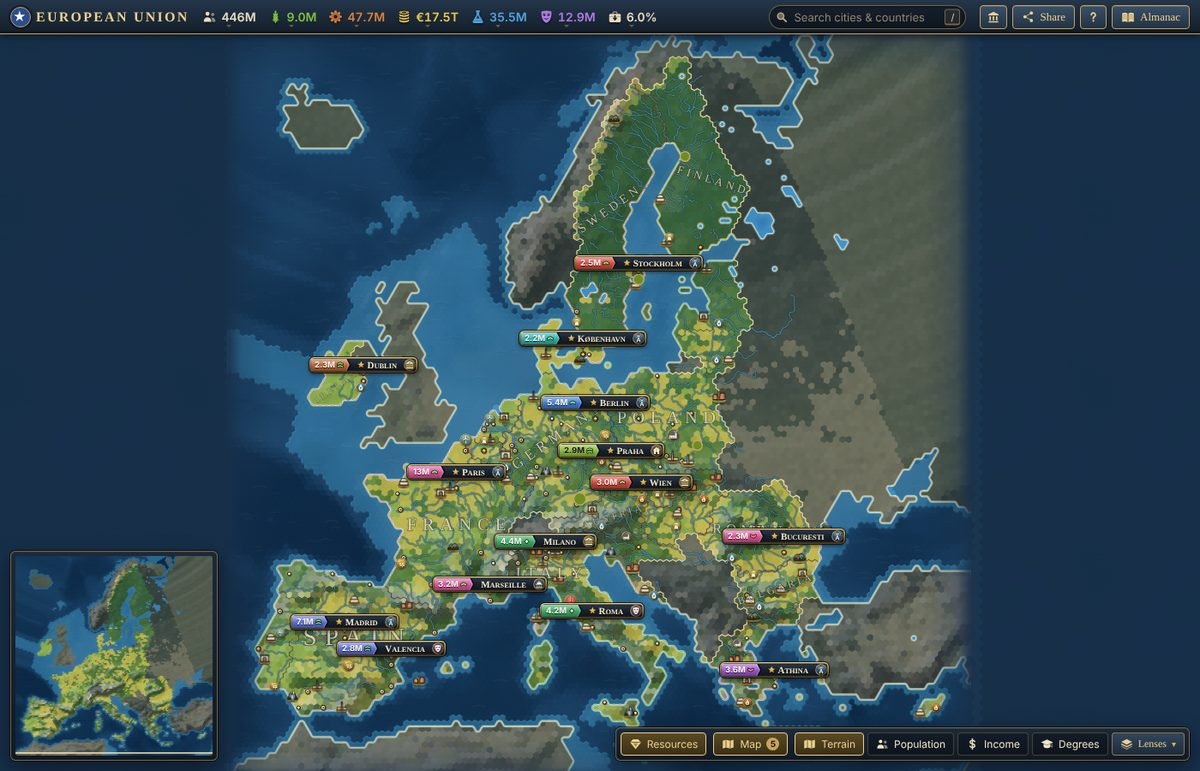
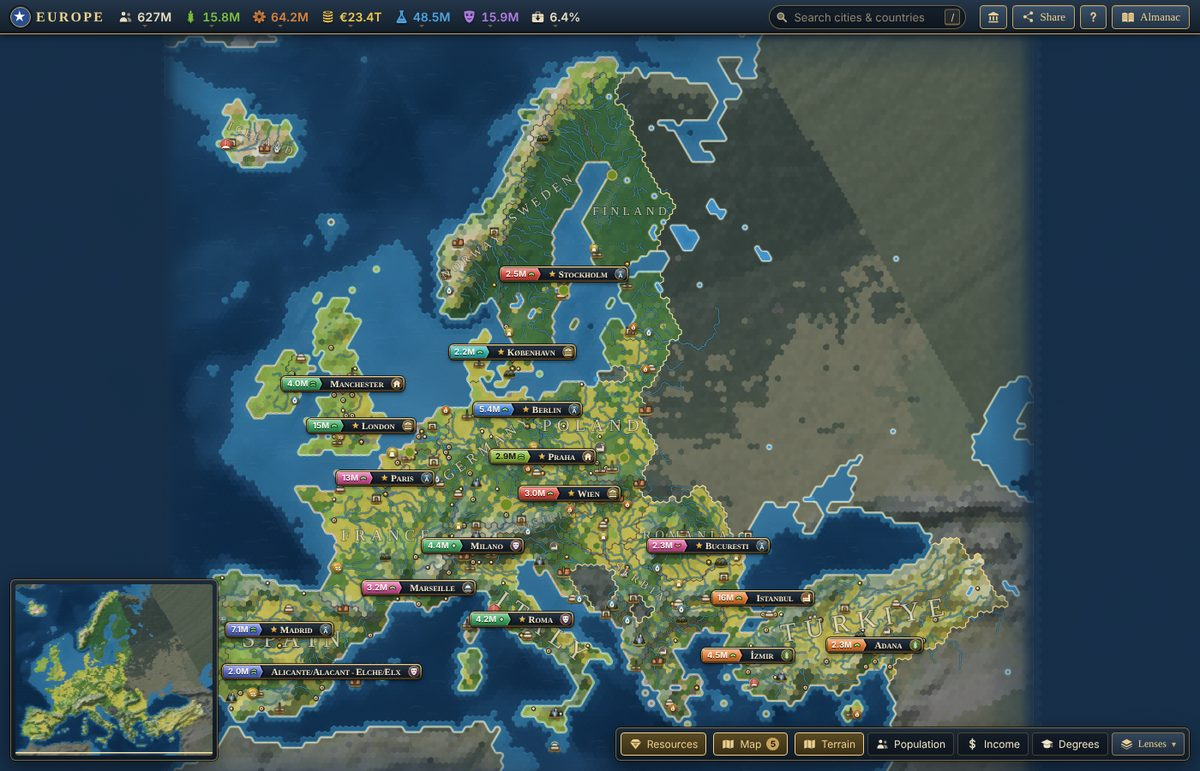
EU Civ: now covers all of Europe in Eurostat's regions; new screenshot
Claude-Session: https://claude.ai/code/session_01KyLYnHtwQy1yQfzD5A3jrZ

diff --git a/index.html b/index.html
@@ -1421,13 +1421,13 @@
               </p>
             </article>
             <article class="card repo showcase reveal">
-              <a class="shot" href="https://kalfasyan.github.io/eu-civ/" target="_blank" rel="noopener noreferrer"><img src="images/eu_civ.jpg" alt="EU Civ: a Civilization-style hex map of the European Union with cities, terrain and yields" width="1200" height="771" loading="lazy"></a>
+              <a class="shot" href="https://kalfasyan.github.io/eu-civ/" target="_blank" rel="noopener noreferrer"><img src="images/eu_civ.jpg" alt="EU Civ: a Civilization-style hex map of Europe with cities, terrain and yields" width="1200" height="771" loading="lazy"></a>
               <div class="repo-top">
                 <span class="repo-name"><svg class="ico ico-fill" aria-hidden="true"><use href="#i-github"/></svg>eu-civ</span>
                 <span class="stars" data-repo="kalfasyan/eu-civ"><svg class="ico ico-fill" aria-hidden="true"><use href="#i-star"/></svg><span>0</span></span>
               </div>
-              <p>The European Union as a Civilization-style hex map built from real public data: 238 metro regions as cities, terrain from elevation and ESA WorldCover land cover, and yields from Eurostat (jobs, GDP, R&amp;D). An EU adaptation of Andrej Karpathy&rsquo;s usaciv, with a new Python data pipeline.</p>
-              <ul class="tags"><li class="tag">Eurostat</li><li class="tag">ESA WorldCover</li><li class="tag">GIS</li><li class="tag">JavaScript</li></ul>
+              <p>Europe as a Civilization-style hex map built from real public data: the EU plus the UK, Switzerland, Norway, Türkiye and the Western Balkans, 325 cities, terrain from elevation and ESA WorldCover land cover, and yields from Eurostat and the ONS (jobs, GDP, R&amp;D). An EU adaptation of Andrej Karpathy&rsquo;s usaciv, with a new Python data pipeline.</p>
+              <ul class="tags"><li class="tag">Eurostat</li><li class="tag">ONS</li><li class="tag">ESA WorldCover</li><li class="tag">GIS</li><li class="tag">JavaScript</li></ul>
               <p class="link-row">
                 <a href="https://kalfasyan.github.io/eu-civ/" target="_blank" rel="noopener noreferrer">Live map<svg class="ico" aria-hidden="true"><use href="#i-ext"/></svg></a>
                 <a href="https://github.com/kalfasyan/eu-civ" target="_blank" rel="noopener noreferrer"><svg class="ico ico-fill" aria-hidden="true"><use href="#i-github"/></svg>kalfasyan/eu-civ</a>

diff --git a/README.md b/README.md
@@ -110,9 +110,9 @@ Keywords: *Computer Vision, Hyperspectral Imaging, Image Processing, Satellite D
 
 <a href="https://spektrify.vercel.app"><img src="images/spektrify.jpg" alt="spektrify viewer" width="640"></a>
 
-**[`eu-civ`](https://github.com/kalfasyan/eu-civ)** - The EU as a Civilization-style hex map built from real public data · [live map](https://kalfasyan.github.io/eu-civ/)  
+**[`eu-civ`](https://github.com/kalfasyan/eu-civ)** - Europe as a Civilization-style hex map built from real public data · [live map](https://kalfasyan.github.io/eu-civ/)  
 ![GitHub stars](https://img.shields.io/github/stars/kalfasyan/eu-civ?style=flat-square&logo=github)
-- 238 metro regions as cities, terrain from elevation and ESA WorldCover, yields from Eurostat (jobs, GDP, R&D). An EU adaptation of Andrej Karpathy's [usaciv](https://github.com/karpathy/usaciv) with a new Python data pipeline.
+- The EU plus the UK, Switzerland, Norway, Türkiye and the Western Balkans: 325 cities, terrain from elevation and ESA WorldCover, yields from Eurostat and the ONS (jobs, GDP, R&D). An EU adaptation of Andrej Karpathy's [usaciv](https://github.com/karpathy/usaciv) with a new Python data pipeline.
 
 <a href="https://kalfasyan.github.io/eu-civ/"><img src="images/eu_civ.jpg" alt="EU Civ map" width="640"></a>
 
